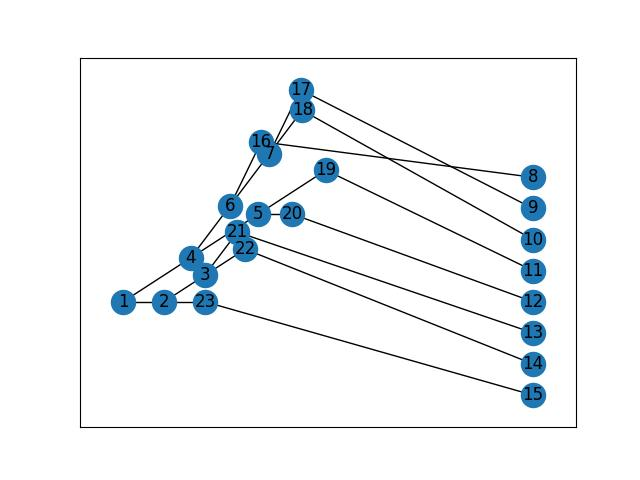
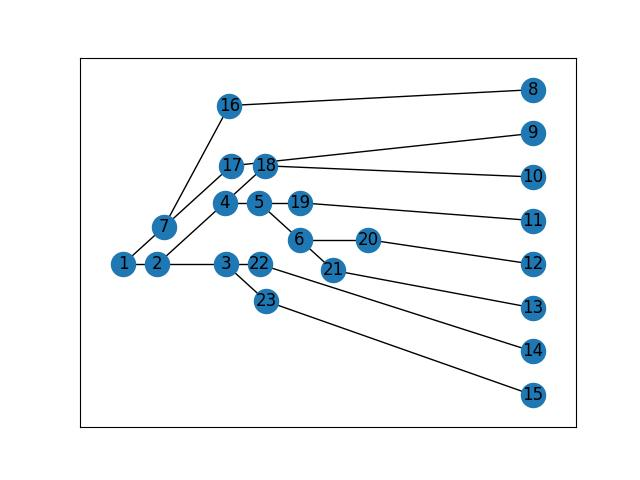
matrix path length fix2

Changed region(s): [[0.1562, 0.1562, 0.875, 0.8125], [0.3125, 0.2812, 0.3438, 0.3125]]

diff --git a/main.py b/main.py
@@ -421,7 +421,7 @@ class Tree:
     def main(self):
         flag = True
         # plan layer filter
-        a = 0
+        a = 1
         while flag:
             self.plan_generator(a)
             a = self.layer_filter()
